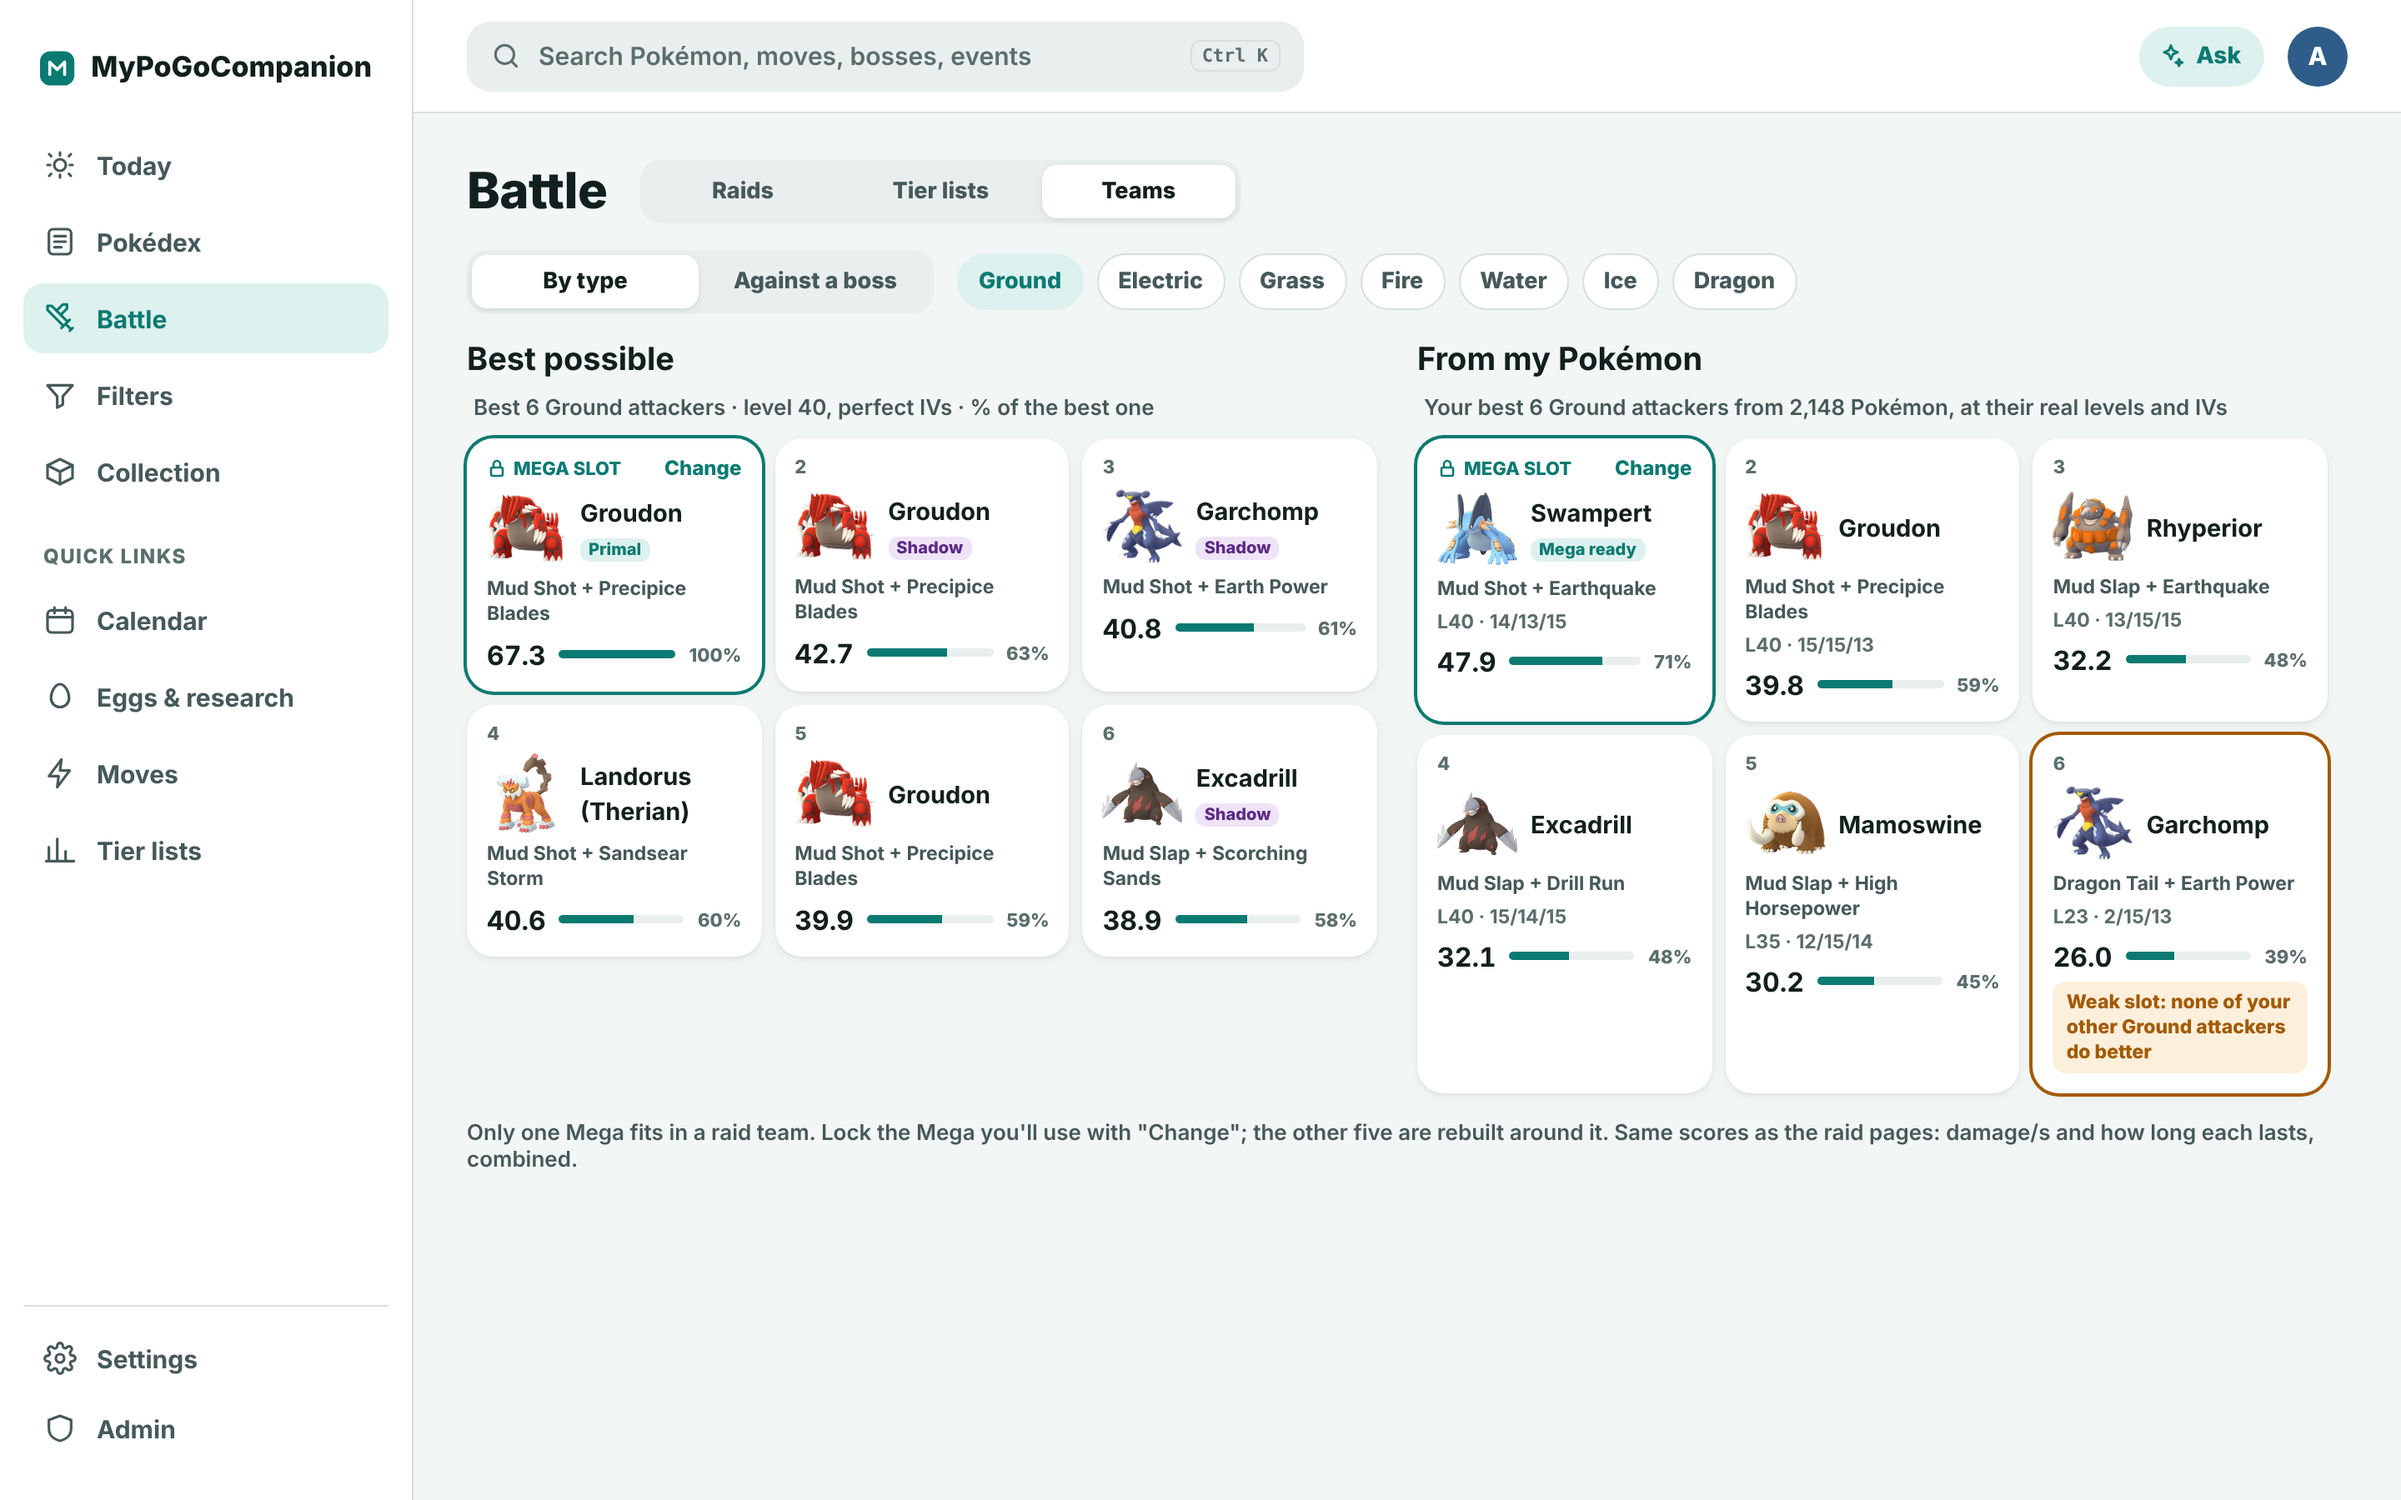
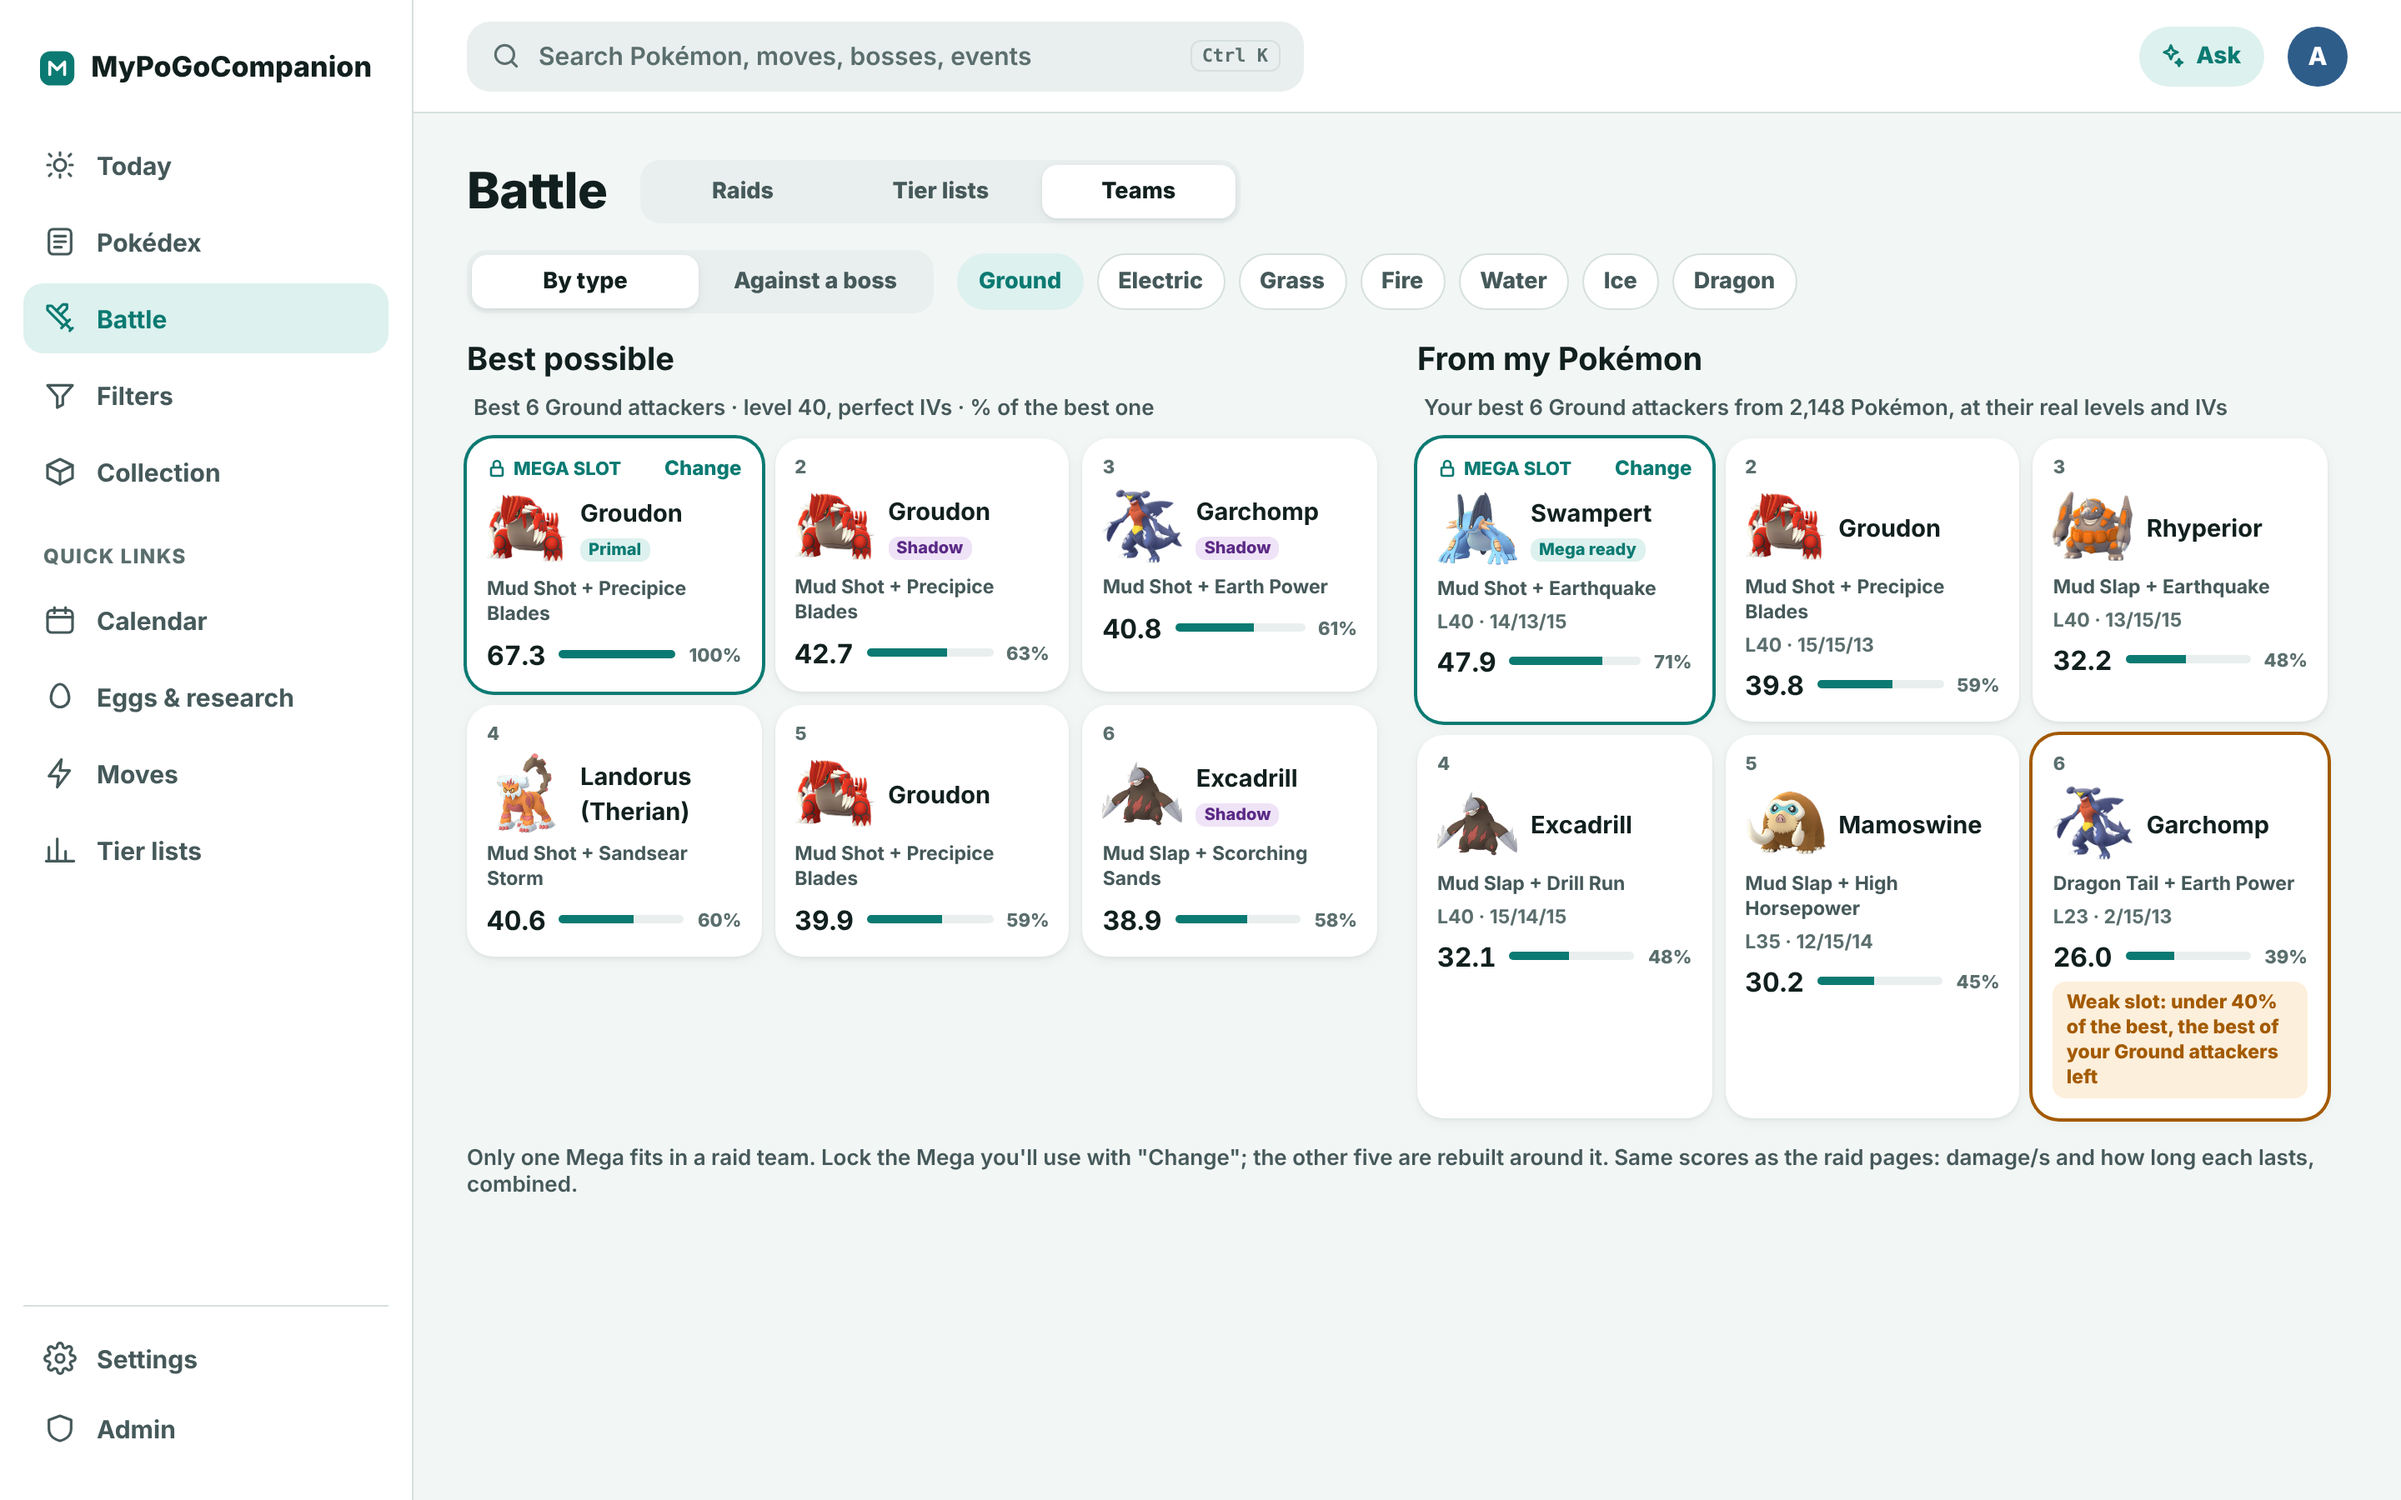
Design: C4 weak-slot rule stated; fix generator
Claude-Session: https://claude.ai/code/session_014PLsCiJiJmtsciFeh9tQXY

Changed region(s): [[0.1875, 0.6533, 0.9688, 0.8089]]

diff --git a/design/source/screens/C4-desktop.html b/design/source/screens/C4-desktop.html
@@ -16,5 +16,5 @@
 <span class="mv">Mud Slap + Earthquake</span><span class="lv">L40 · 13/15/15</span><div class="ft"><b>32.2</b><div class="sbar"><i style="width:48%"></i></div><span>48%</span></div></div><div class="slot"><div class="hd"><span>4</span></div><div class="mid"><img class="sprite" src="../sprites/530.png" width="48" height="48" alt=""><div style="min-width:0"><b class="n">Excadrill</b><br></div></div>
 <span class="mv">Mud Slap + Drill Run</span><span class="lv">L40 · 15/14/15</span><div class="ft"><b>32.1</b><div class="sbar"><i style="width:48%"></i></div><span>48%</span></div></div><div class="slot"><div class="hd"><span>5</span></div><div class="mid"><img class="sprite" src="../sprites/473.png" width="48" height="48" alt=""><div style="min-width:0"><b class="n">Mamoswine</b><br></div></div>
 <span class="mv">Mud Slap + High Horsepower</span><span class="lv">L35 · 12/15/14</span><div class="ft"><b>30.2</b><div class="sbar"><i style="width:45%"></i></div><span>45%</span></div></div><div class="slot weakslot"><div class="hd"><span>6</span></div><div class="mid"><img class="sprite" src="../sprites/445.png" width="48" height="48" alt=""><div style="min-width:0"><b class="n">Garchomp</b><br></div></div>
-<span class="mv">Dragon Tail + Earth Power</span><span class="lv">L23 · 2/15/13</span><div class="ft"><b>26.0</b><div class="sbar"><i style="width:39%"></i></div><span>39%</span></div><div class="warnnote">Weak slot: none of your other Ground attackers do better</div></div></div></div></div>
+<span class="mv">Dragon Tail + Earth Power</span><span class="lv">L23 · 2/15/13</span><div class="ft"><b>26.0</b><div class="sbar"><i style="width:39%"></i></div><span>39%</span></div><div class="warnnote">Weak slot: under 40% of the best, the best of your Ground attackers left</div></div></div></div></div>
 <p class="sub" style="margin:0">Only one Mega fits in a raid team. Lock the Mega you'll use with "Change"; the other five are rebuilt around it. Same scores as the raid pages: damage/s and how long each lasts, combined.</p></div></div></div><script src="../chrome.js"></script></body></html>

diff --git a/design/source/screens/C4m-phone.html b/design/source/screens/C4m-phone.html
@@ -6,5 +6,5 @@
 <span class="mv">Mud Slap + Earthquake</span><span class="lv">L40 · 13/15/15</span><div class="ft"><b>32.2</b><div class="sbar"><i style="width:48%"></i></div><span>48%</span></div></div><div class="slot"><div class="hd"><span>4</span></div><div class="mid"><img class="sprite" src="../sprites/530.png" width="48" height="48" alt=""><div style="min-width:0"><b class="n">Excadrill</b><br></div></div>
 <span class="mv">Mud Slap + Drill Run</span><span class="lv">L40 · 15/14/15</span><div class="ft"><b>32.1</b><div class="sbar"><i style="width:48%"></i></div><span>48%</span></div></div><div class="slot"><div class="hd"><span>5</span></div><div class="mid"><img class="sprite" src="../sprites/473.png" width="48" height="48" alt=""><div style="min-width:0"><b class="n">Mamoswine</b><br></div></div>
 <span class="mv">Mud Slap + High Horsepower</span><span class="lv">L35 · 12/15/14</span><div class="ft"><b>30.2</b><div class="sbar"><i style="width:45%"></i></div><span>45%</span></div></div><div class="slot weakslot"><div class="hd"><span>6</span></div><div class="mid"><img class="sprite" src="../sprites/445.png" width="48" height="48" alt=""><div style="min-width:0"><b class="n">Garchomp</b><br></div></div>
-<span class="mv">Dragon Tail + Earth Power</span><span class="lv">L23 · 2/15/13</span><div class="ft"><b>26.0</b><div class="sbar"><i style="width:39%"></i></div><span>39%</span></div><div class="warnnote">Weak slot: none of your other Ground attackers do better</div></div></div></div></div>
+<span class="mv">Dragon Tail + Earth Power</span><span class="lv">L23 · 2/15/13</span><div class="ft"><b>26.0</b><div class="sbar"><i style="width:39%"></i></div><span>39%</span></div><div class="warnnote">Weak slot: under 40% of the best, the best of your Ground attackers left</div></div></div></div></div>
 <div data-tabbar="battle"></div></div></div></div><script src="../chrome.js"></script></body></html>

diff --git a/design/source/screens/gen_c4.py b/design/source/screens/gen_c4.py
@@ -26,7 +26,7 @@ def slot(r, top, i, weak=False):
     pc = round(s / top * 100)
     tg = f'<span class="tag {t.split()[0].lower()}">{t}</span>' if t else ''
     hd = f'<span class="lock">{LOCK}MEGA SLOT</span><a>Change</a>' if i == 0 else f'<span>{i + 1}</span>'
-    note = '<div class="warnnote">Weak slot: under 40% of the best, and it's your next best Ground attacker</div>' if weak else ''
+    note = '<div class="warnnote">Weak slot: under 40% of the best, the best of your Ground attackers left</div>' if weak else ''
     return f'''<div class="slot{" mega" if i == 0 else ""}{" weakslot" if weak else ""}"><div class="hd">{hd}</div><div class="mid"><img class="sprite" src="../sprites/{sp}.png" width="48" height="48" alt=""><div style="min-width:0"><b class="n">{n}</b><br>{tg}</div></div>
 <span class="mv">{f} + {c}</span>{f'<span class="lv">{lv}</span>' if lv else ''}<div class="ft"><b>{s}</b><div class="sbar"><i style="width:{pc}%"></i></div><span>{pc}%</span></div>{note}</div>'''
 def team(rows, top, weak_last=False):
